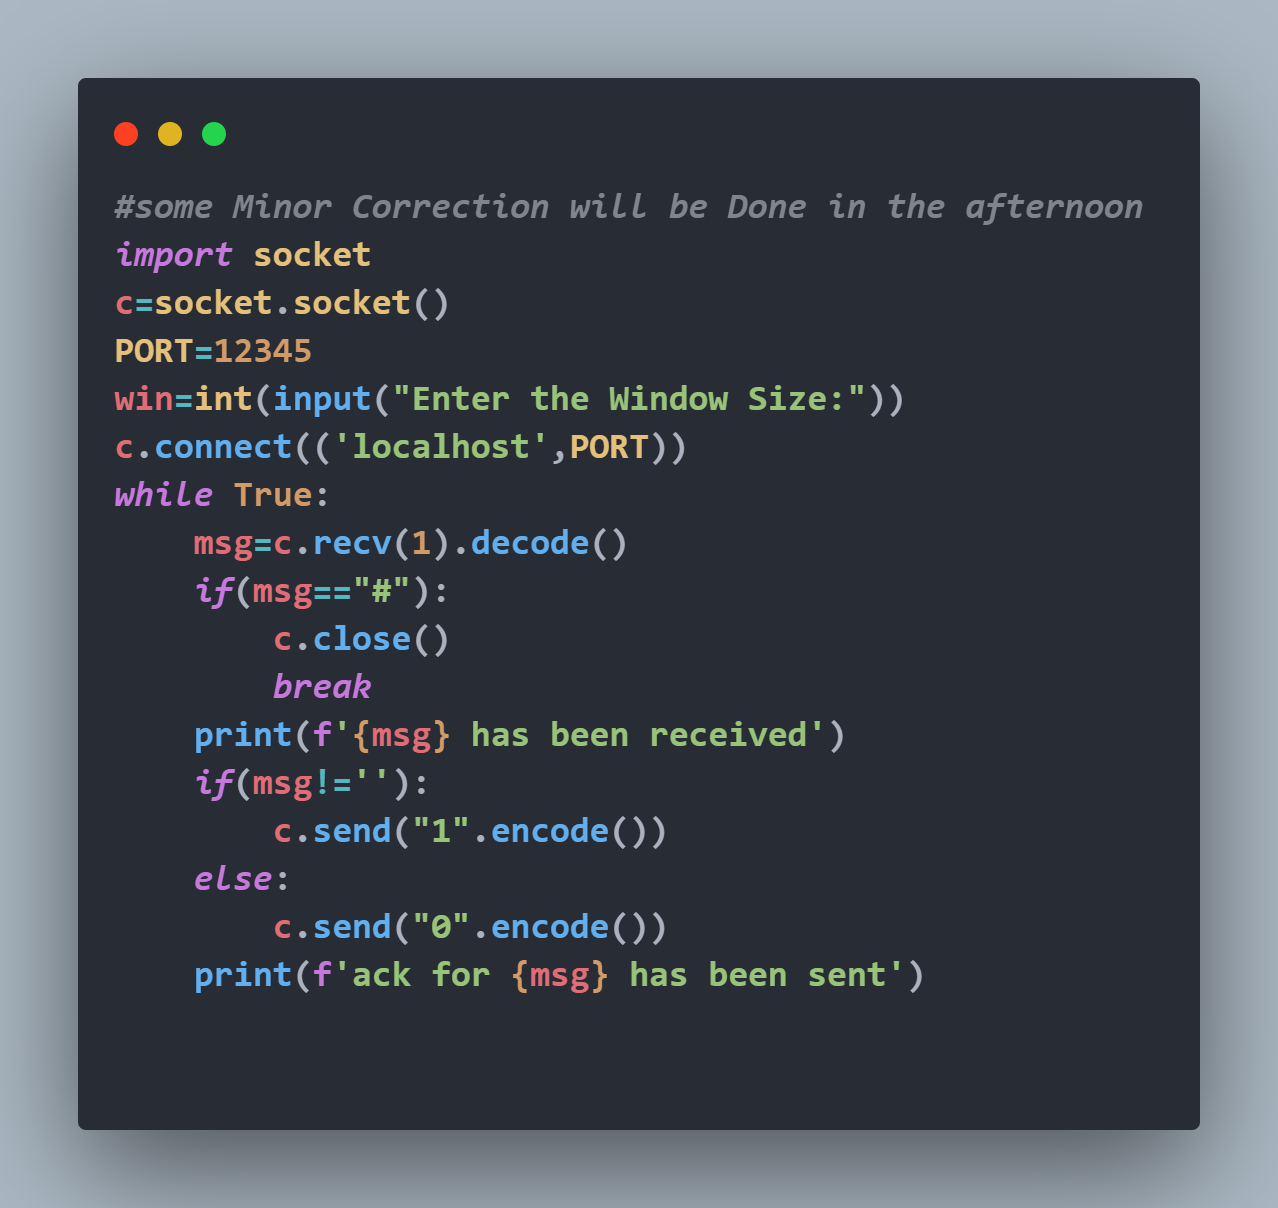
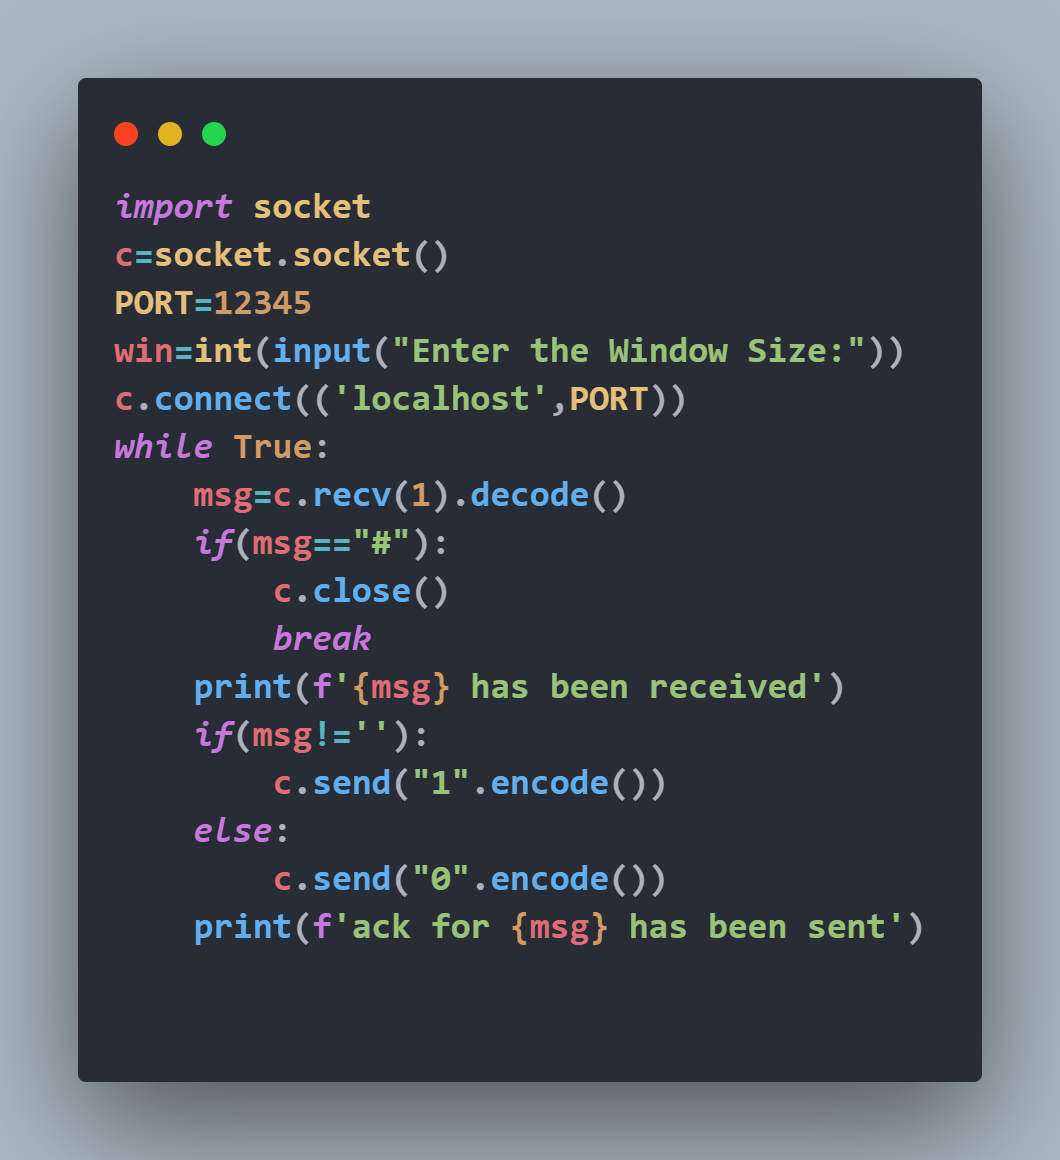
Final

Changed region(s): [[0.0623, 0.0621, 0.9651, 0.9621]]

diff --git a/Java/Subnetting/IPPlan.java b/Java/Subnetting/IPPlan.java
@@ -19,7 +19,7 @@ class IPPlan
             for(int k :hosts)
                 total+=k;
                 
-            if(total>252)
+            if(total>253)
                 System.out.println("Total Host must be less than or equal to 252");
             else
             {

diff --git a/Python/Sliding Window/server.py b/Python/Sliding Window/server.py
@@ -1,5 +1,3 @@
-#some Minor Correction will be Done in the afternoon
-# Reamining Codes will be uploaded in the afternoon
 import socket
 s=socket.socket()
 PORT=12345

diff --git a/Python/Sliding Window/client.py b/Python/Sliding Window/client.py
@@ -1,4 +1,3 @@
-#some Minor Correction will be Done in the afternoon
 import socket
 c=socket.socket()
 PORT=12345
